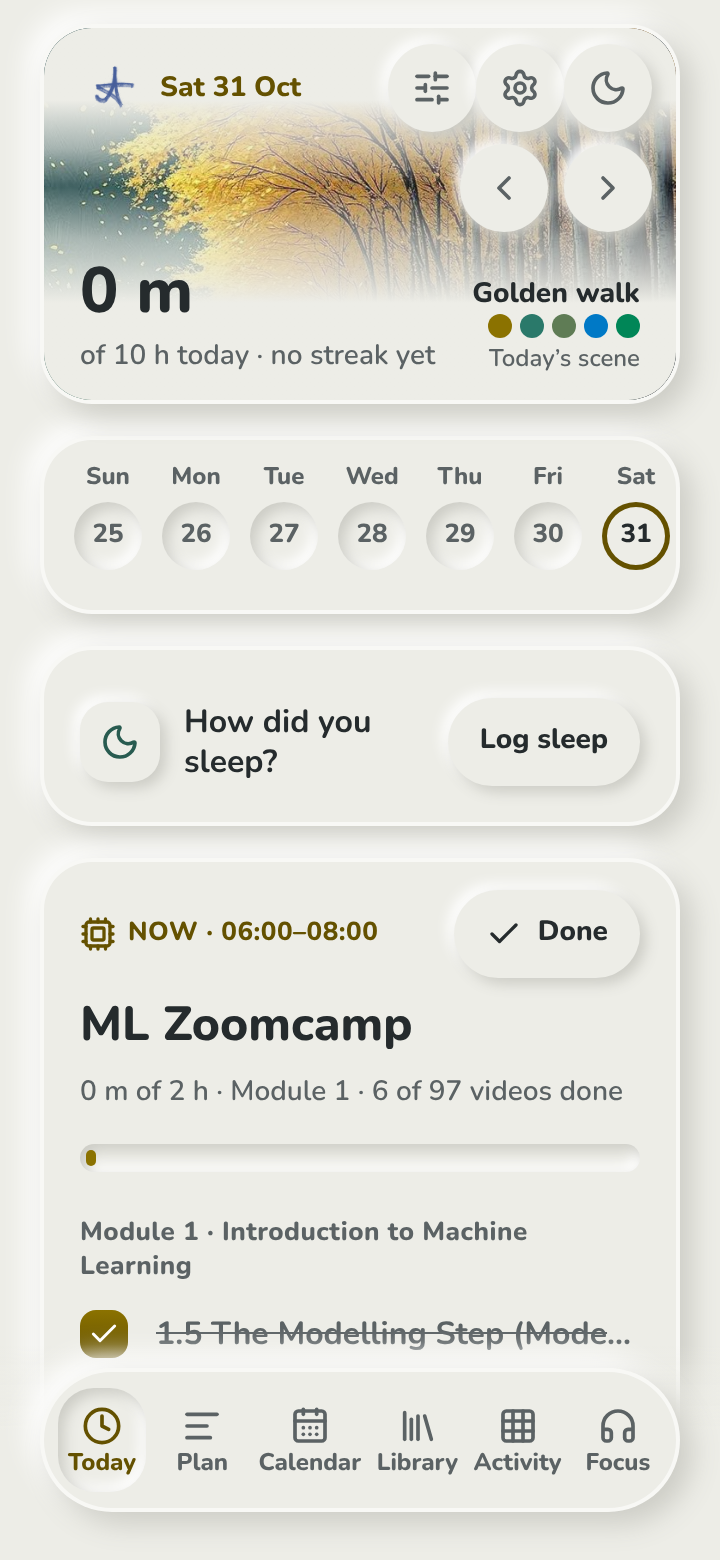
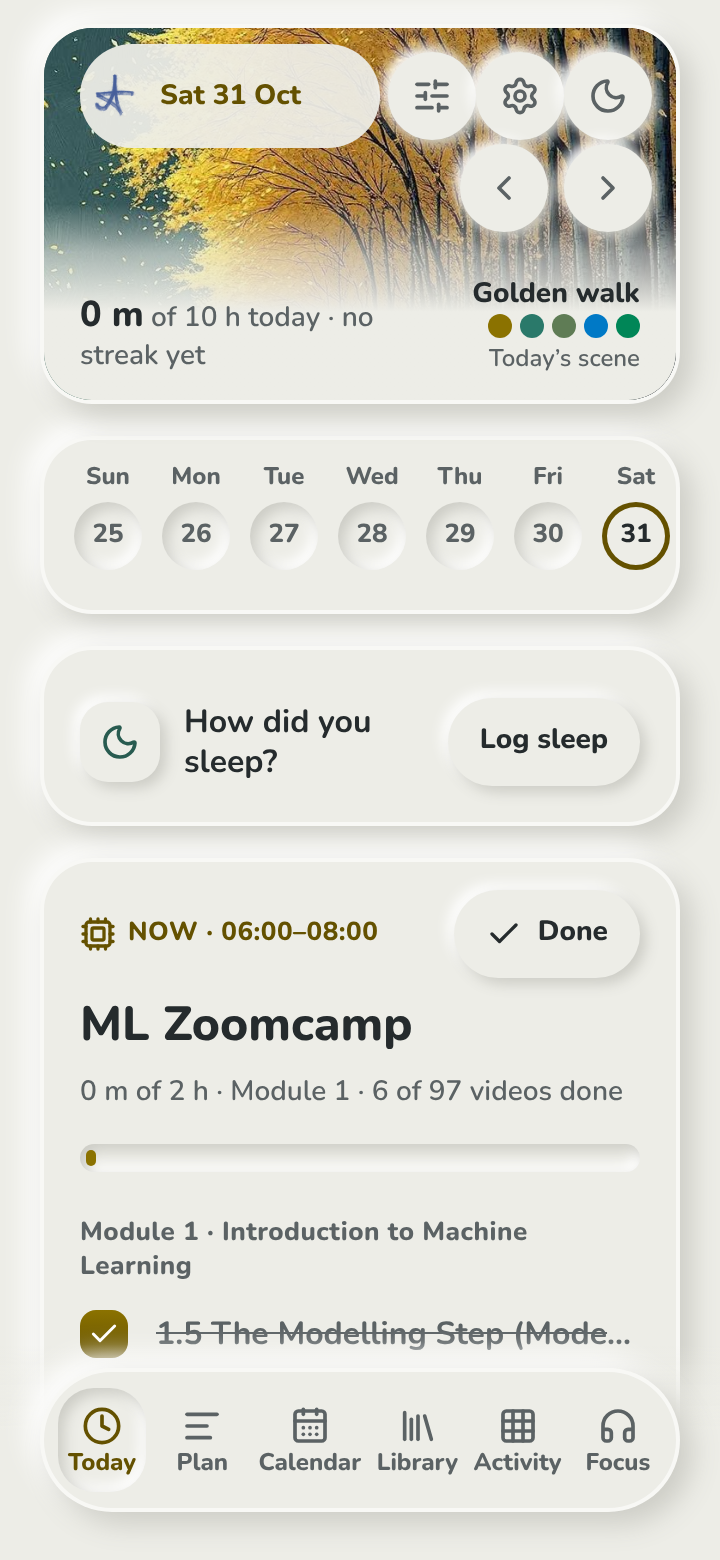
Today's scene shows: the header row on a chip over the picture, the hours on one line
The top fade is gone (the mark and the date sit on one paper chip, the knobs are paper), and the hours
are one line on the picture, so the fade under them is low and the picture's clear band roughly doubles.
The panel stays 2:1: a taller one put "Later today" under the tab bar at 390 x 844.

Claude-Session: https://claude.ai/code/session_01JtKkaUJDWyKTKz8FH5k5EA

Changed region(s): [[0.0611, 0.0, 0.9472, 0.2462]]

diff --git a/src/screens/Today.tsx b/src/screens/Today.tsx
@@ -584,8 +584,11 @@ export function Today() {
     .join(' · ');
 
   // The header row and the day's hours: on the illustration's fades, or on their own when the art is off.
-  const headerRow = (
+  // On the scene's picture (ATLAS-DAILY-SCENES) the mark and the date sit on one paper chip, so no fade is needed
+  // over the top of the picture; the knobs are paper already.
+  const headerRowFor = (onImage: boolean) => (
     <>
+    <span className={'flex min-w-0 flex-1 items-center gap-1' + (onImage ? ' scene-chip !rounded-pill py-1 pr-1' : '')}>
     <span aria-hidden="true" className="flex shrink-0 items-center gap-1.5 pl-1">
       <img src={'./brand/atlas-mark-' + theme + '.png'} width={26} height={26} alt="" />
       <span className="text-[1.125rem] font-semibold tracking-[-0.01em] max-[379px]:sr-only">Atlas</span>
@@ -593,6 +596,7 @@ export function Today() {
     <button type="button" className="min-h-11 min-w-0 flex-1 truncate rounded-pill px-1.5 text-left text-meta font-semibold text-blue-deep" onClick={() => setSheet('date')} aria-haspopup="dialog" aria-label={shortDate(date) + (isToday ? ', today' : '') + ', pick a date'}>
       {shortDate(date)}
     </button>
+    </span>
     <span className="-mr-1.5 flex shrink-0">
       {canChange && <Button variant="icon" icon="sliders" className="!size-11" label={isToday ? 'Change today' : 'Change ' + dateTitle(date)} onClick={() => setSheet('change')} />}
       <Button variant="icon" icon="gear" className="!size-11" label="Settings" to="/settings" />
@@ -625,6 +629,26 @@ export function Today() {
       </p>
     ) : null;
 
+  // On the scene's picture the hours are one line, so the fade under them stays low and the picture shows: the
+  // number in the lead size, the rest as meta. The plain tile and the illustrations' panel keep the big number.
+  const heroCompact =
+    nowRunning || otherRunning ? (
+      <p className="text-meta text-ink2">
+        <span role="timer" aria-label={'Running, ' + span(Math.floor(blockMs(timer!.block) / 60_000)) + ' on this block today'} className="text-lead font-semibold tabular-nums text-blue-deep">
+          {formatStopwatch(blockMs(timer!.block))}
+        </span>{' '}
+        <span>
+          <span className="font-semibold text-blue-deep">Running</span>
+          {' · since ' + clockOf(timer!.startedAt) + ' · ' + span(Math.floor(blockMs(timer!.block) / 60_000)) + ' on this block today'}
+        </span>
+      </p>
+    ) : layout.stats ? (
+      <p className="text-meta text-ink2">
+        <span className="text-lead font-semibold text-ink">{span(dayMinutes)}</span>
+        {' of ' + span(plan.targetMinutes) + ' today' + (templateNote ? ' · ' + templateNote : '') + ' · ' + (streakState.current > 0 ? streakState.current + '-day streak' : 'no streak yet')}
+      </p>
+    ) : null;
+
   return (
     <Screen title="Today">
       <div
@@ -653,11 +677,10 @@ export function Today() {
             eager
             alt={(previewDay ? 'Scene for ' + shortDate(todayDate(previewDay)) : 'Today’s scene') + ': ' + sceneShown.name}
             className="mt-[max(0.75rem,env(safe-area-inset-top))] w-full max-[379px]:min-h-[190px]"
-            top={<div className="flex items-center gap-1">{headerRow}</div>}
             bottom={
               <div className="flex items-end justify-between gap-3">
                 {/* The day's hours on the left (the hours tile folded in, as with the illustrations), the scene on the right. */}
-                <div className="min-w-0 flex-1 [&_p]:!items-start [&_p]:text-left">{hero ?? <p className="text-meta text-ink2">{dateTitle(date)}</p>}</div>
+                <div className="min-w-0 flex-1">{heroCompact ?? <p className="text-meta text-ink2">{dateTitle(date)}</p>}</div>
                 <Link to="/scenes" className="flex min-h-11 shrink-0 flex-col items-end justify-center gap-0.5 rounded-knob text-right">
                   <span className="max-w-[9.5rem] truncate text-meta font-semibold leading-tight">{previewDay ? (sceneShift === 1 ? 'Tomorrow' : sceneShift === -1 ? 'Yesterday' : shortDate(todayDate(previewDay))) + ' · ' + sceneShown.name : sceneShown.name}</span>
                   <SceneSwatches scene={sceneShown} size={12} />
@@ -666,16 +689,19 @@ export function Today() {
               </div>
             }
           >
-            {/* Previous and next day's scenes, a look only: two paper knobs on the picture's right, between the fades. */}
+            {/* The header row on the picture itself, no fade: the mark and the date on a paper chip, the knobs are paper
+                already. The picture shows from the top down to the hours' fade. */}
+            <div className="absolute inset-x-0 top-0 flex items-center gap-1 px-[18px] pt-2">{headerRowFor(true)}</div>
+            {/* Previous and next day's scenes, a look only: two paper knobs on the picture's right, under the header row. */}
             <span className="absolute right-3 top-[58px] flex gap-2">
               <Button variant="icon" icon="chevronLeft" className="scene-chip !size-11 !rounded-pill text-ink" label="Preview the previous day's scene" onClick={() => setSceneShift((n) => n - 1)} />
               <Button variant="icon" icon="chevronRight" className="scene-chip !size-11 !rounded-pill text-ink" label="Preview the next day's scene" onClick={() => setSceneShift((n) => n + 1)} />
             </span>
           </ScenePanel>
         ) : art.on ? (
-          <ArtPanel slot={todaySlot(art.todayBy, new Date(), item?.track)} aspect="2 / 1" eager alt="" className="mt-[max(0.75rem,env(safe-area-inset-top))]" top={<div className="flex items-center gap-1">{headerRow}</div>} bottom={layout.stats || nowRunning || otherRunning ? hero : undefined} />
+          <ArtPanel slot={todaySlot(art.todayBy, new Date(), item?.track)} aspect="2 / 1" eager alt="" className="mt-[max(0.75rem,env(safe-area-inset-top))]" top={<div className="flex items-center gap-1">{headerRowFor(false)}</div>} bottom={layout.stats || nowRunning || otherRunning ? hero : undefined} />
         ) : (
-          <div className="-mb-1.5 flex items-center gap-1 pt-[max(2.25rem,env(safe-area-inset-top))]">{headerRow}</div>
+          <div className="-mb-1.5 flex items-center gap-1 pt-[max(2.25rem,env(safe-area-inset-top))]">{headerRowFor(false)}</div>
         )}
         {!isToday && (
           <div className="mt-2 flex">

diff --git a/DECISIONS.md b/DECISIONS.md
@@ -2455,3 +2455,13 @@ picture keeps a 190 px floor (with its width pinned, or `aspect-ratio` would wid
 knobs clear the scene's name at 360 px; at 390 px the 2:1 panel stays, since 15 px more would put "Later today"
 under the tab bar; and the "Atlas" wordmark hides under 380 px so the date fits.
 
+## The scene barely showed on Today (pull request #42)
+
+With the header row on a fade at the top and the big hours over two lines on a fade at the bottom, the 2:1 panel
+left a strip of picture about 40 px tall. The top fade is gone: the mark and the date sit on one paper chip on
+the picture itself (the knobs are paper already), so the picture shows from the top edge, around the chip and the
+knobs. The hours are one line on the picture (the number in the lead size, "of 10 h today · 57-day streak" as
+meta), so the fade under them is low; the plain tile and the illustrations' panel keep the big number over two
+lines. A taller panel was tried and refused by the fold rule: at 5:3 "Later today" landed 29 px under the tab bar
+at 390 × 844, and the fold check allows about 6 px over the 2:1 panel, so the panel stays 2:1 (with the 190 px floor
+under 380 px for the preview knobs) and the picture's clear band roughly doubles instead.
